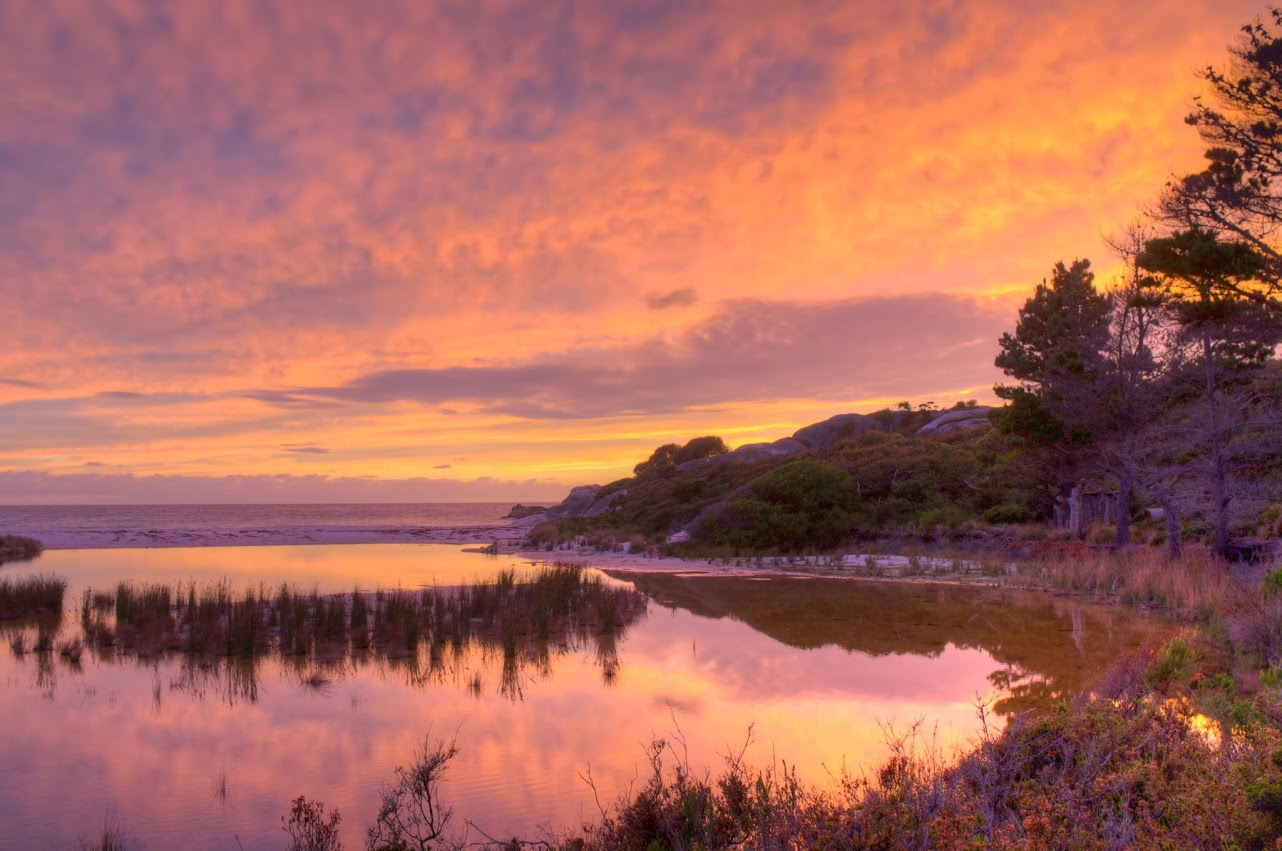
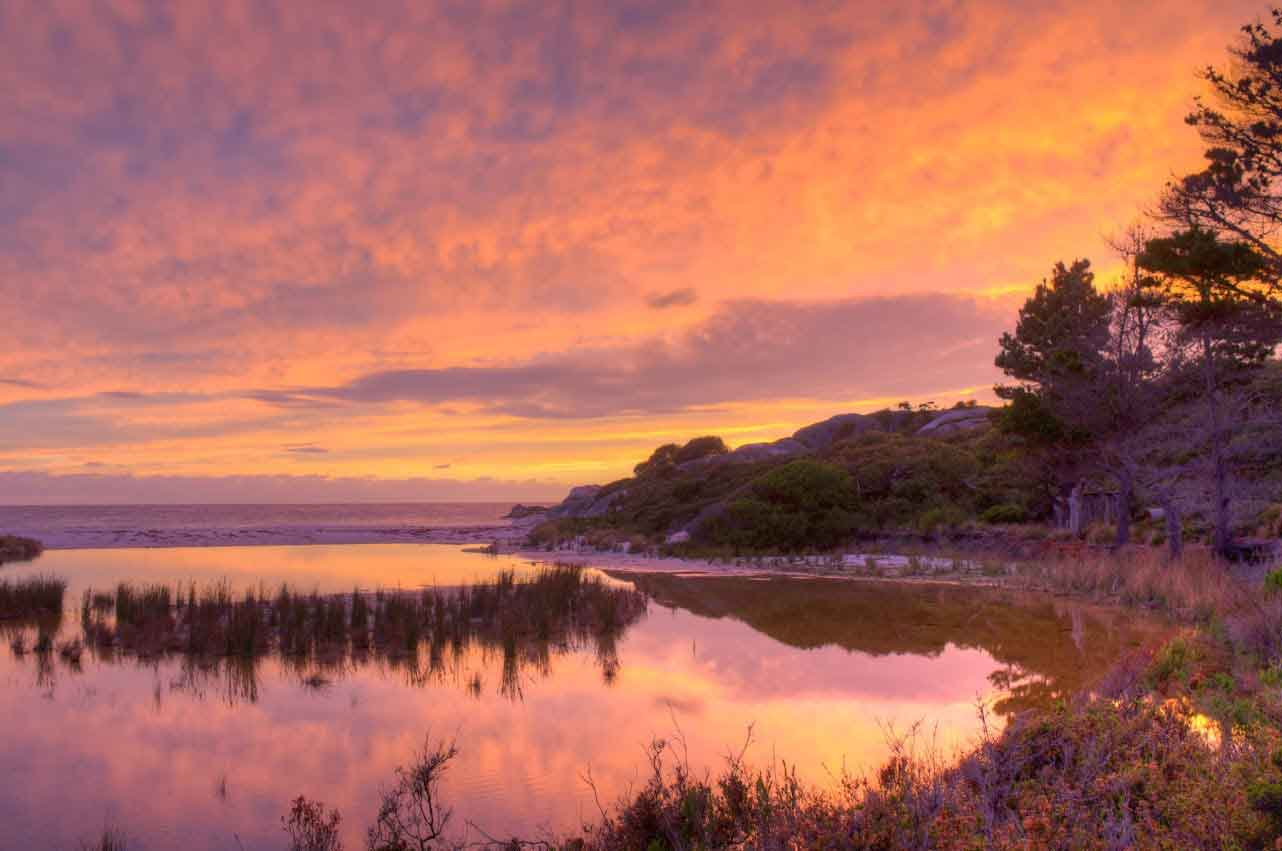
lagoon picture

diff --git a/public/assets/css/style.css b/public/assets/css/style.css
@@ -57,7 +57,7 @@ h1,h2,h3,h4,h5 {
 }
 
 .home-banner {
-    background: url('../images/sunset-2.jpg') no-repeat;
+    background: url('../images/rock-lagoon1.jpg') no-repeat;
     -webkit-background-size: cover;
     -moz-background-size: cover;
     background-size: cover;
